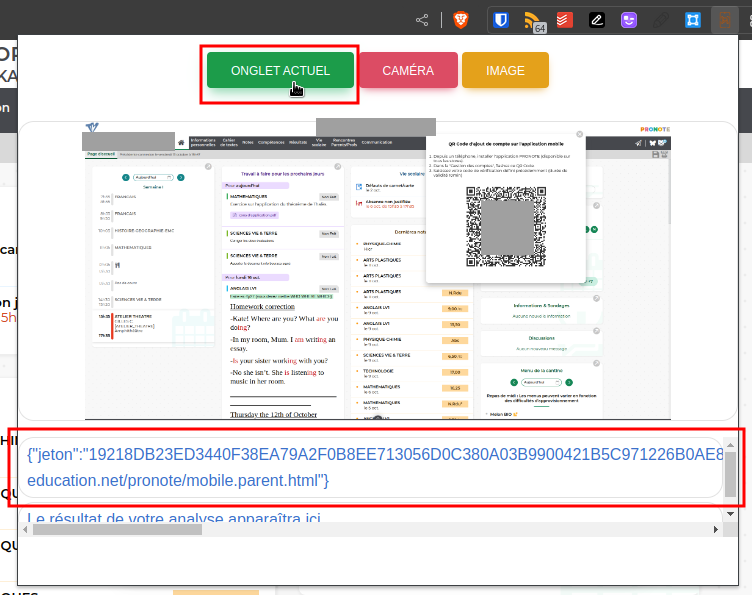
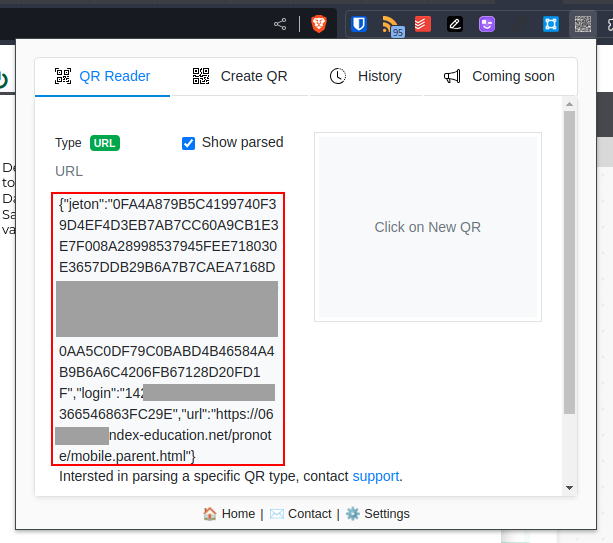
doc: update QR code extension

diff --git a/README.md b/README.md
@@ -32,12 +32,12 @@ Use your Pronote URL with username, password and ENT (optional):
 
 ### Option 2: using the QR Code
 
-Install the following Chrome Extension: [QR Code Scanner for Google Chrome™](https://chrome.google.com/webstore/detail/qr-code-scanner-for-googl/mcgfkahjhghbjdgiibjfkgpenehdldpg/related?hl=en) (only needed for setup).  
+Install the following Chrome Extension: [QR Code Reader](https://chrome.google.com/webstore/detail/qr-code-reader/likadllkkidlligfcdhfnnbkjigdkmci) (only needed for setup).  
 
 Create the QR Code from your Pronote account:  
 ![image](doc/generate_qr_code.png)
 
-Use the Chrome Extension to scan the current tab:  
+Use the extension to scan the QR Code:  
 ![image](doc/scan_qr_code.png)
 
 And copy the JSON ouput that looks like:
